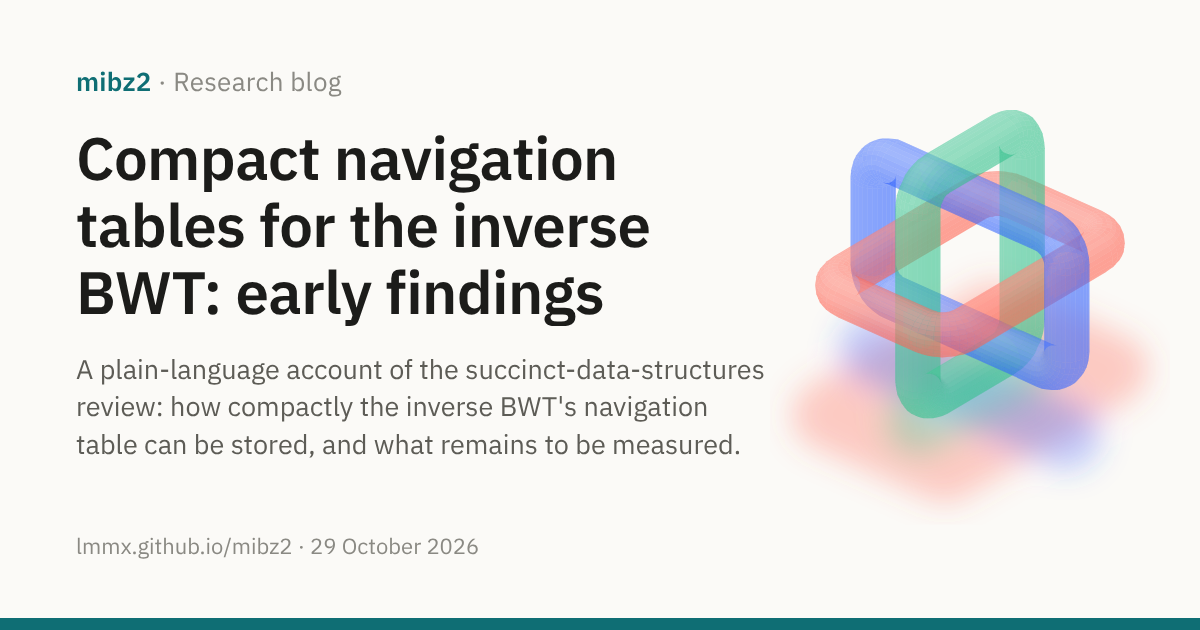
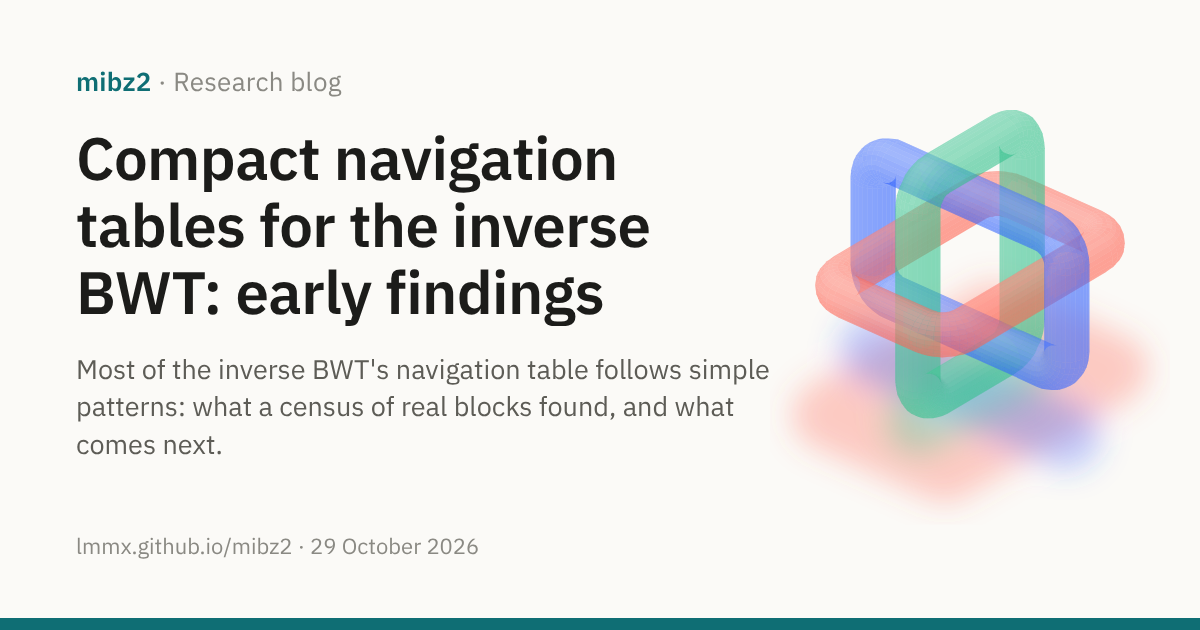
docs(blog): descriptions say what the posts find, not what they are
The first post's description (its subtitle, link previews, card and
llms.txt entry) and the blog index's now state the content instead of
calling it a plain-language account.

Changed region(s): [[0.0617, 0.573, 0.6475, 0.6032], [0.0617, 0.6937, 0.6167, 0.7238], [0.0617, 0.6333, 0.6167, 0.6635]]

diff --git a/docs/site/blog/index.md b/docs/site/blog/index.md
@@ -1,12 +1,12 @@
 ---
-description: "The research blog: plain-language write-ups of what mibz2's experiments are finding."
+description: "What mibz2's experiments are finding, and where they go next."
 ---
 
 # Blog
 
-Plain-language write-ups of what the research is finding. The evidence behind each one is
-in the [journals](../background/journals.md) and the pull requests they link.
+What mibz2's experiments are finding, and where they go next. The evidence behind each
+post is in the [journals](../background/journals.md) and the pull requests they link.
 
 - **29 October 2026:** [Compact navigation tables for the inverse BWT: early findings](2026-10-29-compact-navigation-tables.md):
-  a plain-language account of the succinct-data-structures review: how compactly the
-  inverse BWT's navigation table can be stored, and what remains to be measured.
+  most of the inverse BWT's navigation table follows simple patterns: what a census of
+  real blocks found, and what comes next.

diff --git a/docs/site/blog/2026-10-29-compact-navigation-tables.md b/docs/site/blog/2026-10-29-compact-navigation-tables.md
@@ -1,12 +1,12 @@
 ---
 title: "Compact navigation tables for the inverse BWT: early findings"
 image: assets/social/blog-2026-10-29-compact-navigation-tables.png
-description: "A plain-language account of the succinct-data-structures review: how compactly the inverse BWT's navigation table can be stored, and what remains to be measured."
+description: "Most of the inverse BWT's navigation table follows simple patterns: what a census of real blocks found, and what comes next."
 ---
 
 # Compact navigation tables for the inverse BWT: early findings
 
-*29 October 2026 · A plain-language account of the succinct-data-structures review: how compactly the inverse BWT's navigation table can be stored, and what remains to be measured.*
+*29 October 2026 · Most of the inverse BWT's navigation table follows simple patterns: what a census of real blocks found, and what comes next.*
 
 This research began with a simple question:
 
